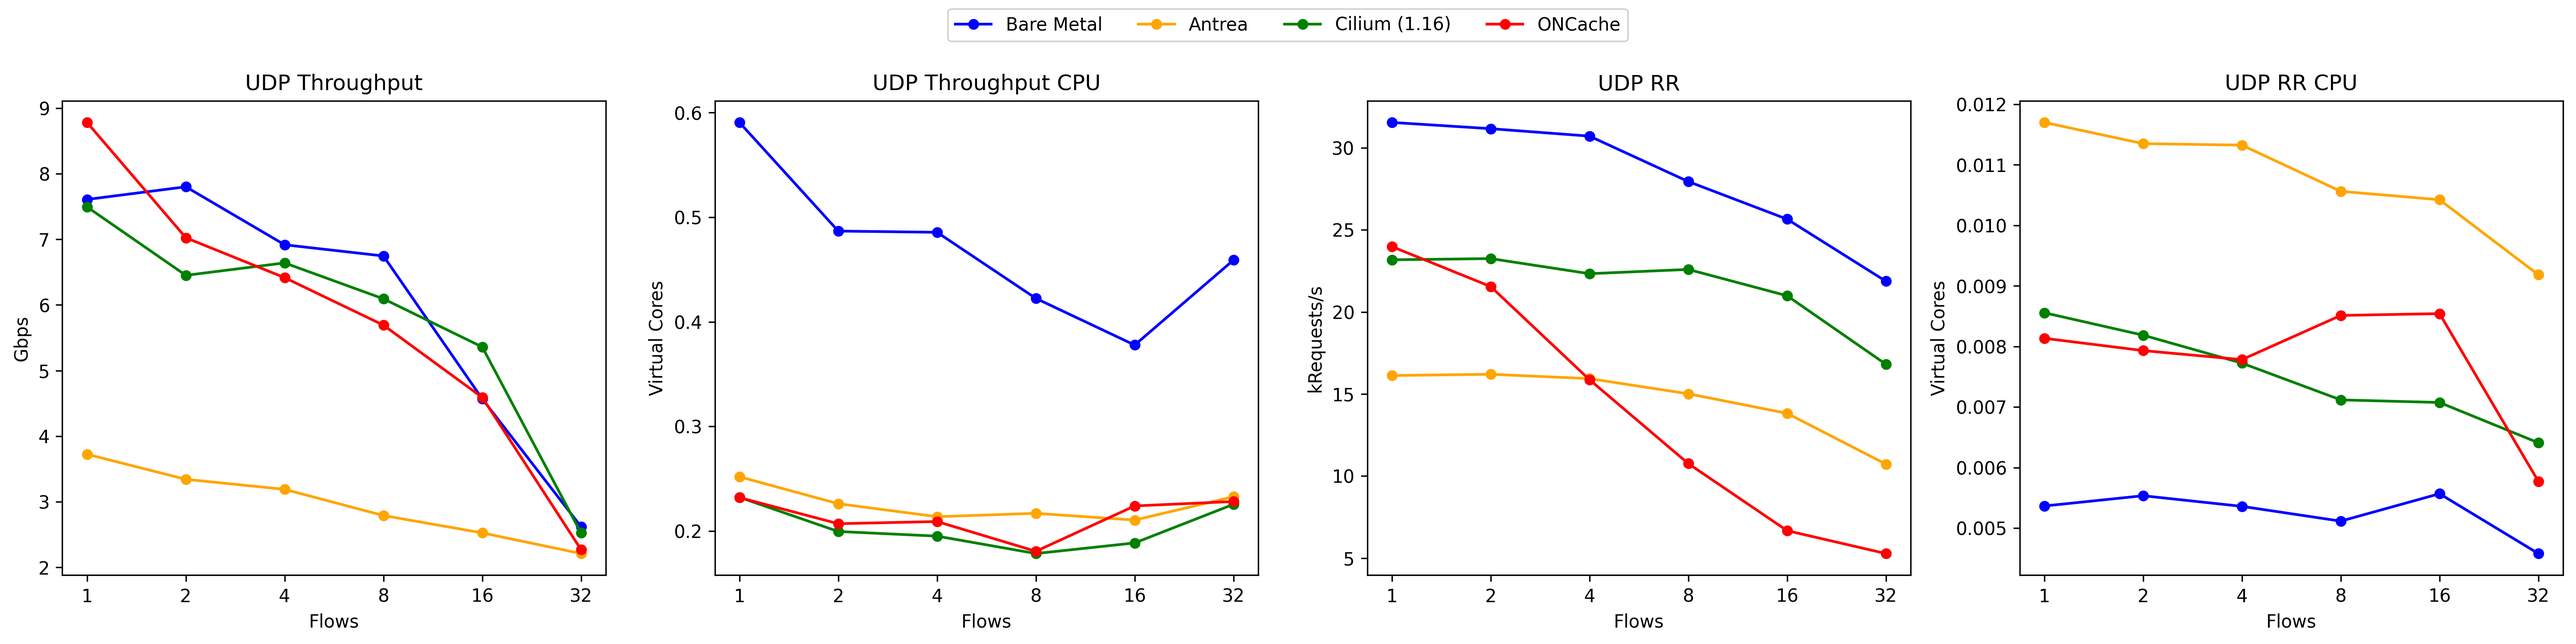
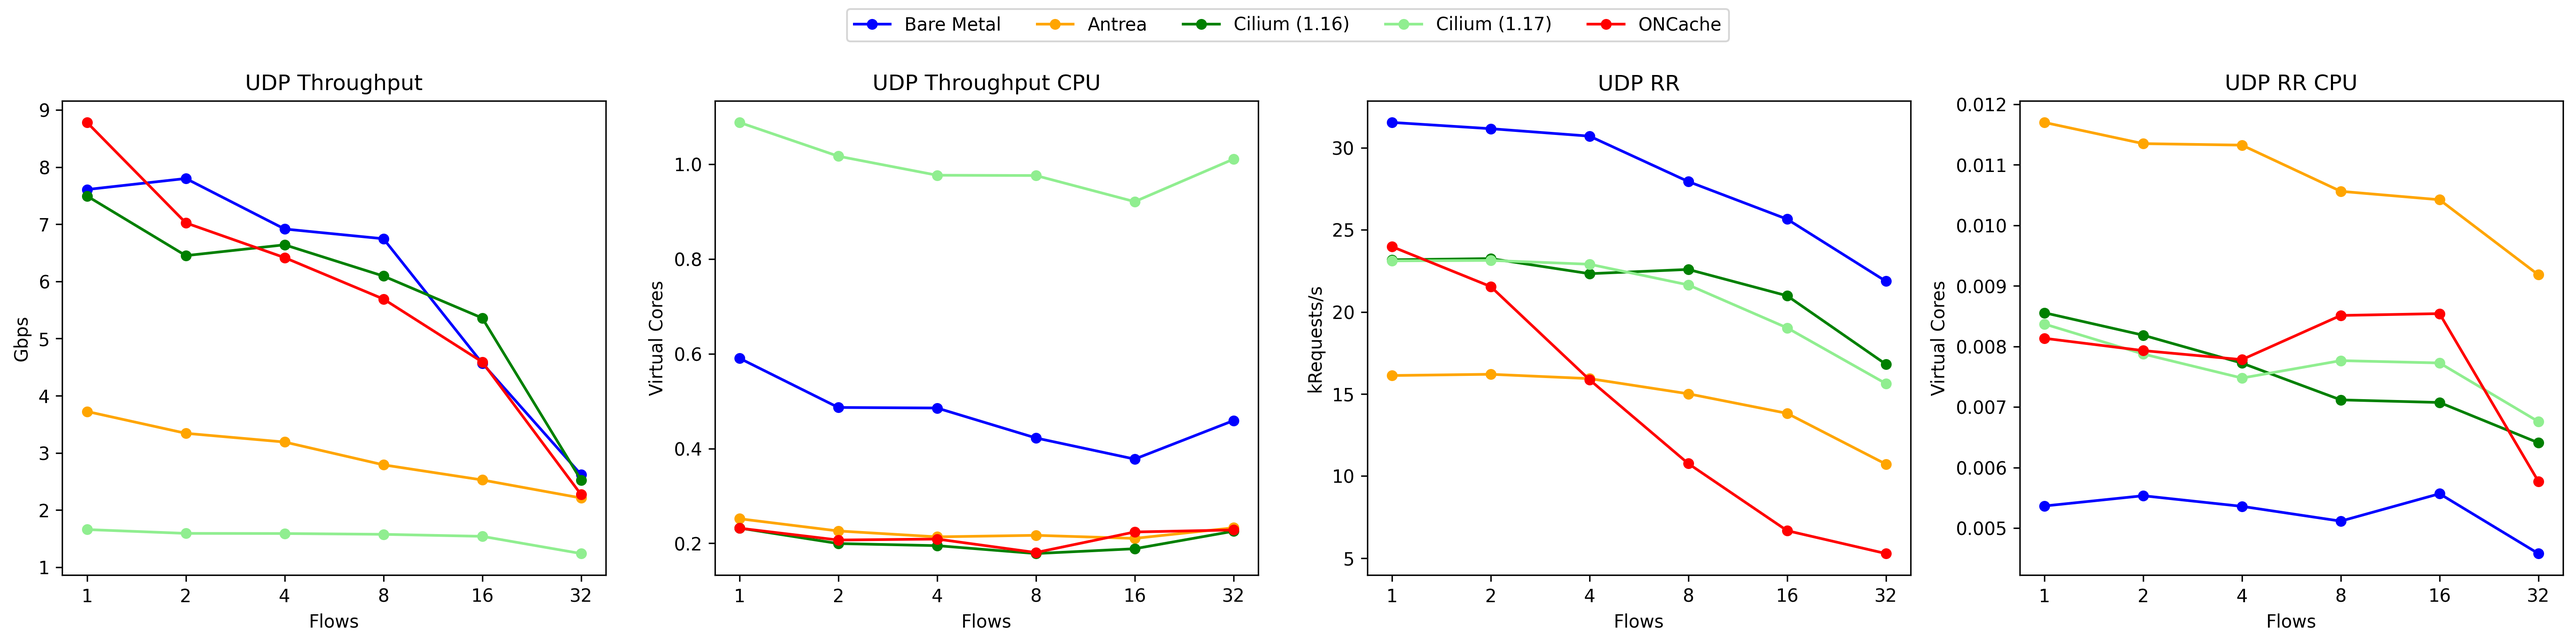
Update plotting

diff --git a/plot.py b/plot.py
@@ -39,11 +39,11 @@ DATA_CONFIG: Dict[str, DataConfig] = {
         "label": "Cilium (1.16)",
         "color": "green",
     },
-    # "k8s-cilium-new": {
-    #     "filename": "{}_k8s_output_cilium_1-17_tuned.csv",
-    #     "label": "Cilium (1.17)",
-    #     "color": "lightgreen",
-    # },
+    "k8s-cilium-new": {
+        "filename": "{}_k8s_output_cilium_1-17_tuned.csv",
+        "label": "Cilium (1.17)",
+        "color": "lightgreen",
+    },
     "k8s-oncache": {
         "filename": "{}_k8s_output_oncache.csv",
         "label": "ONCache",
